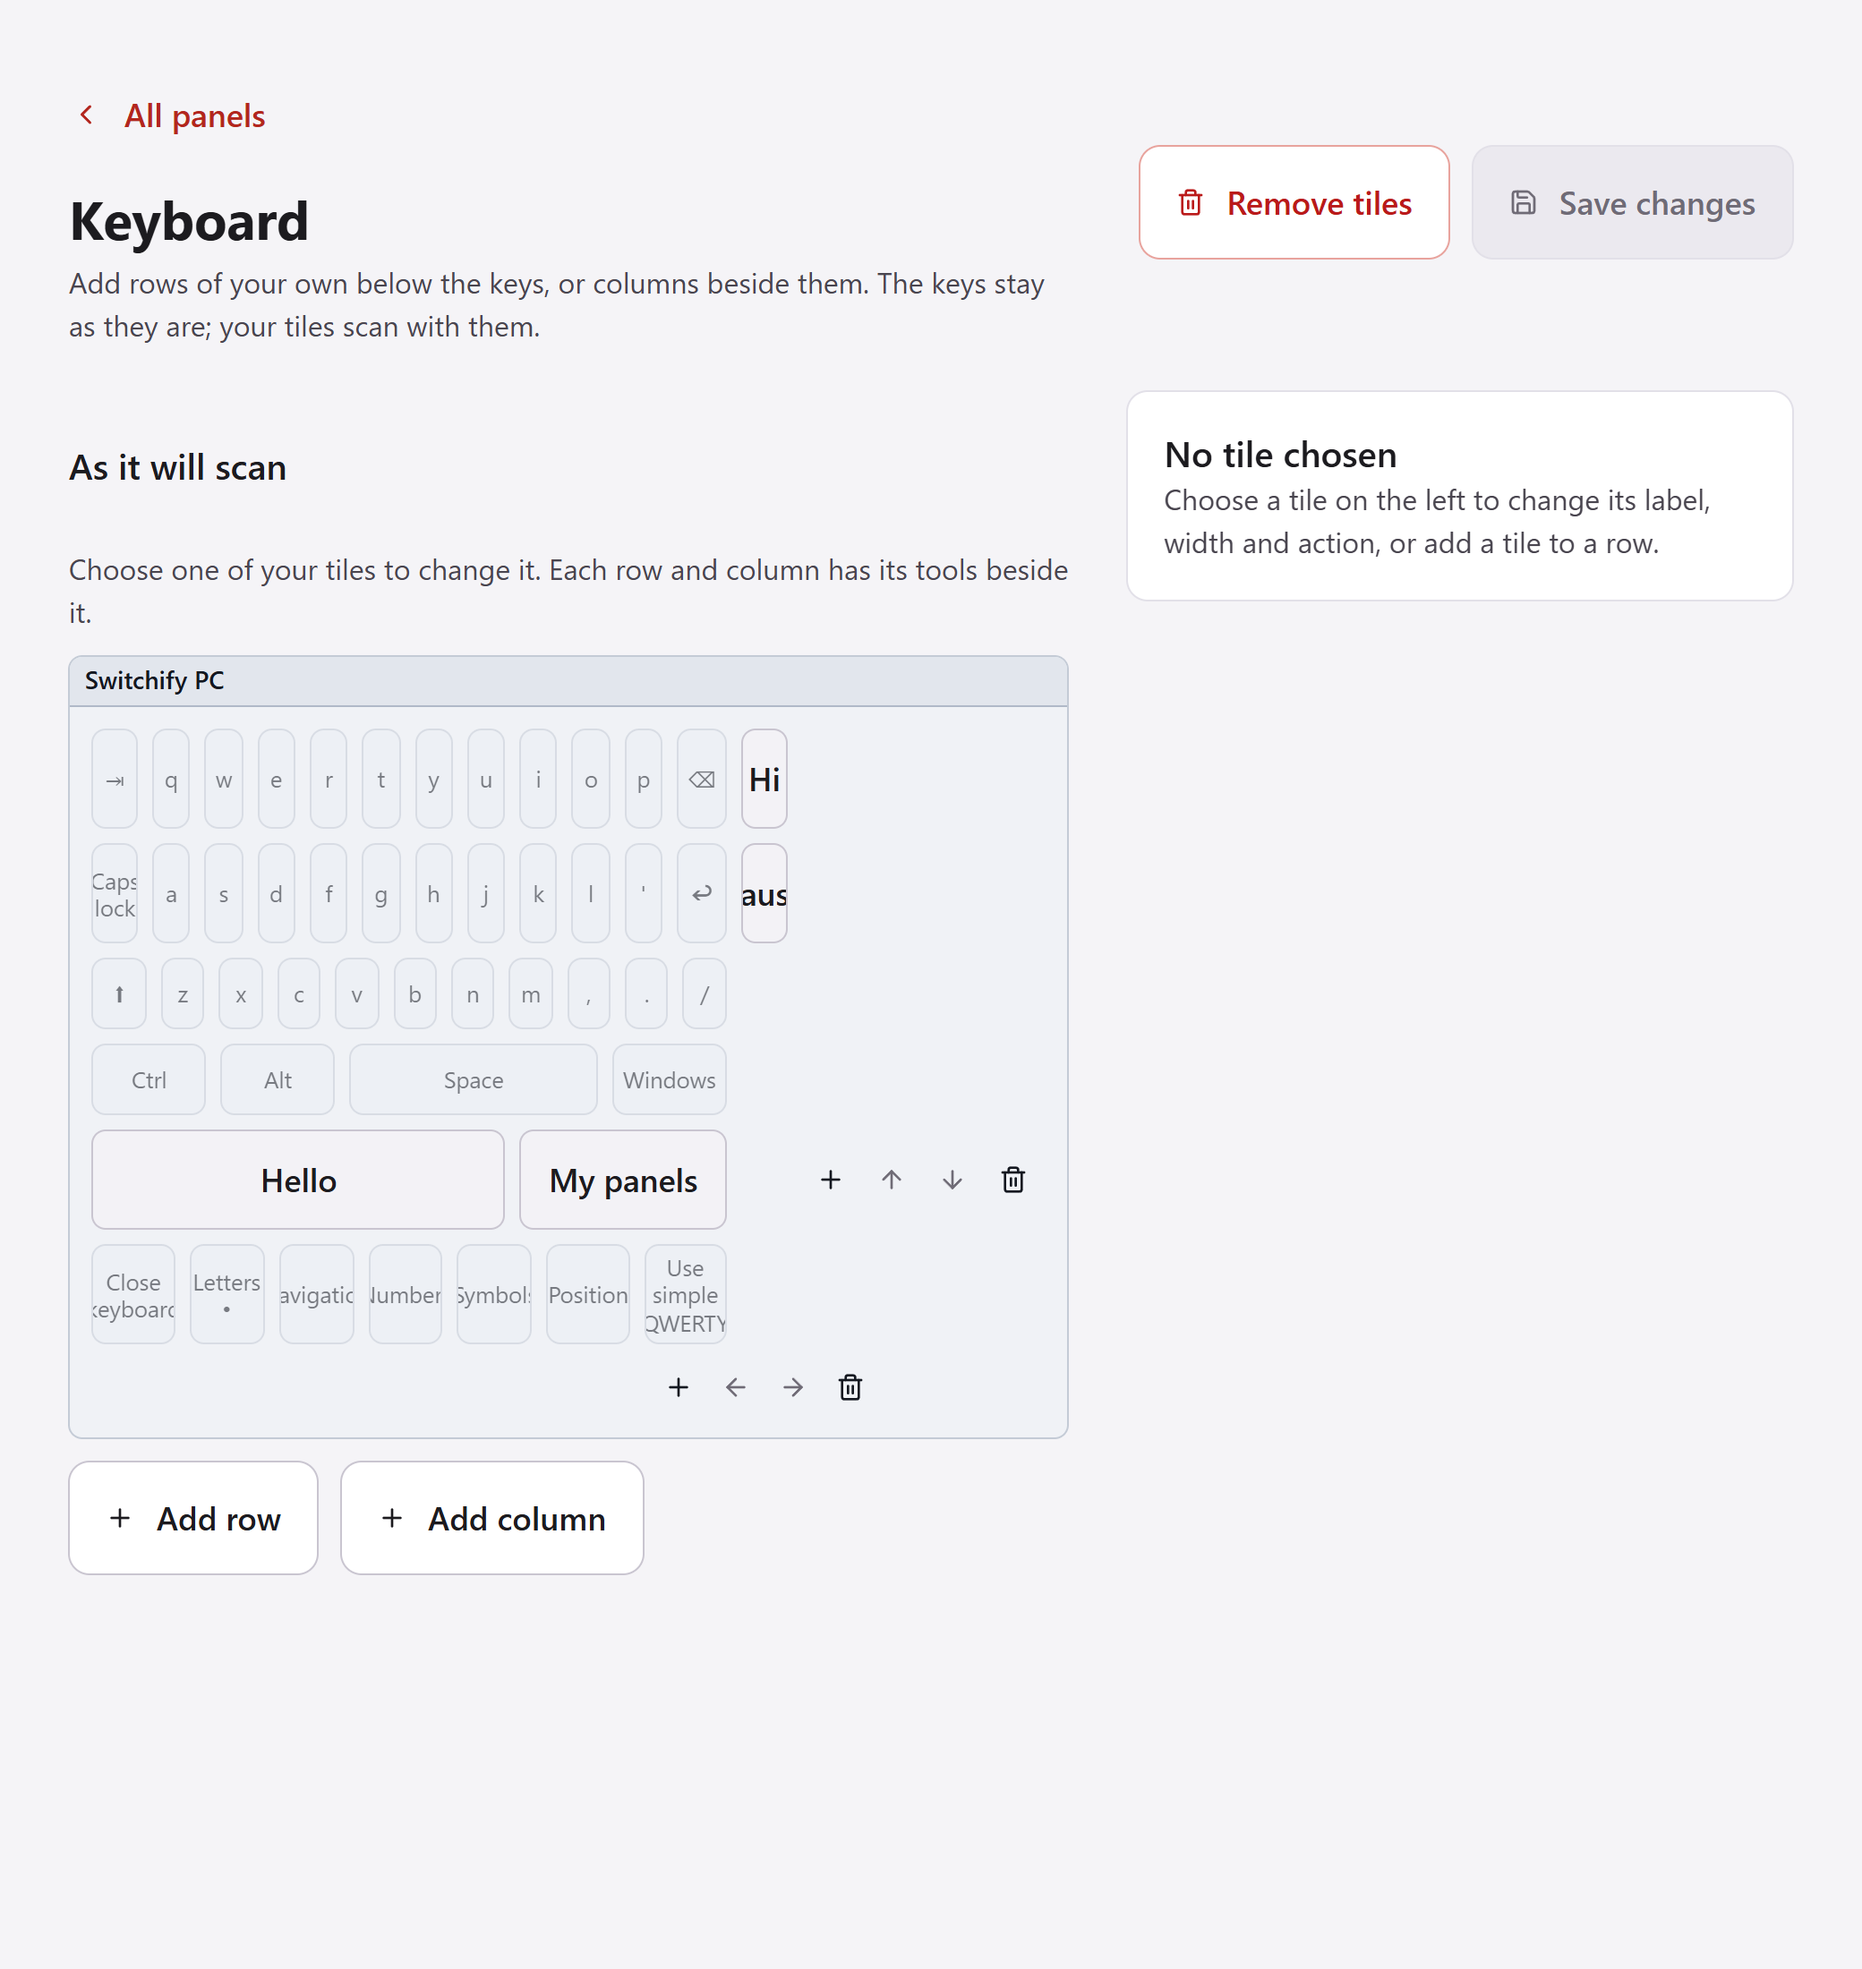
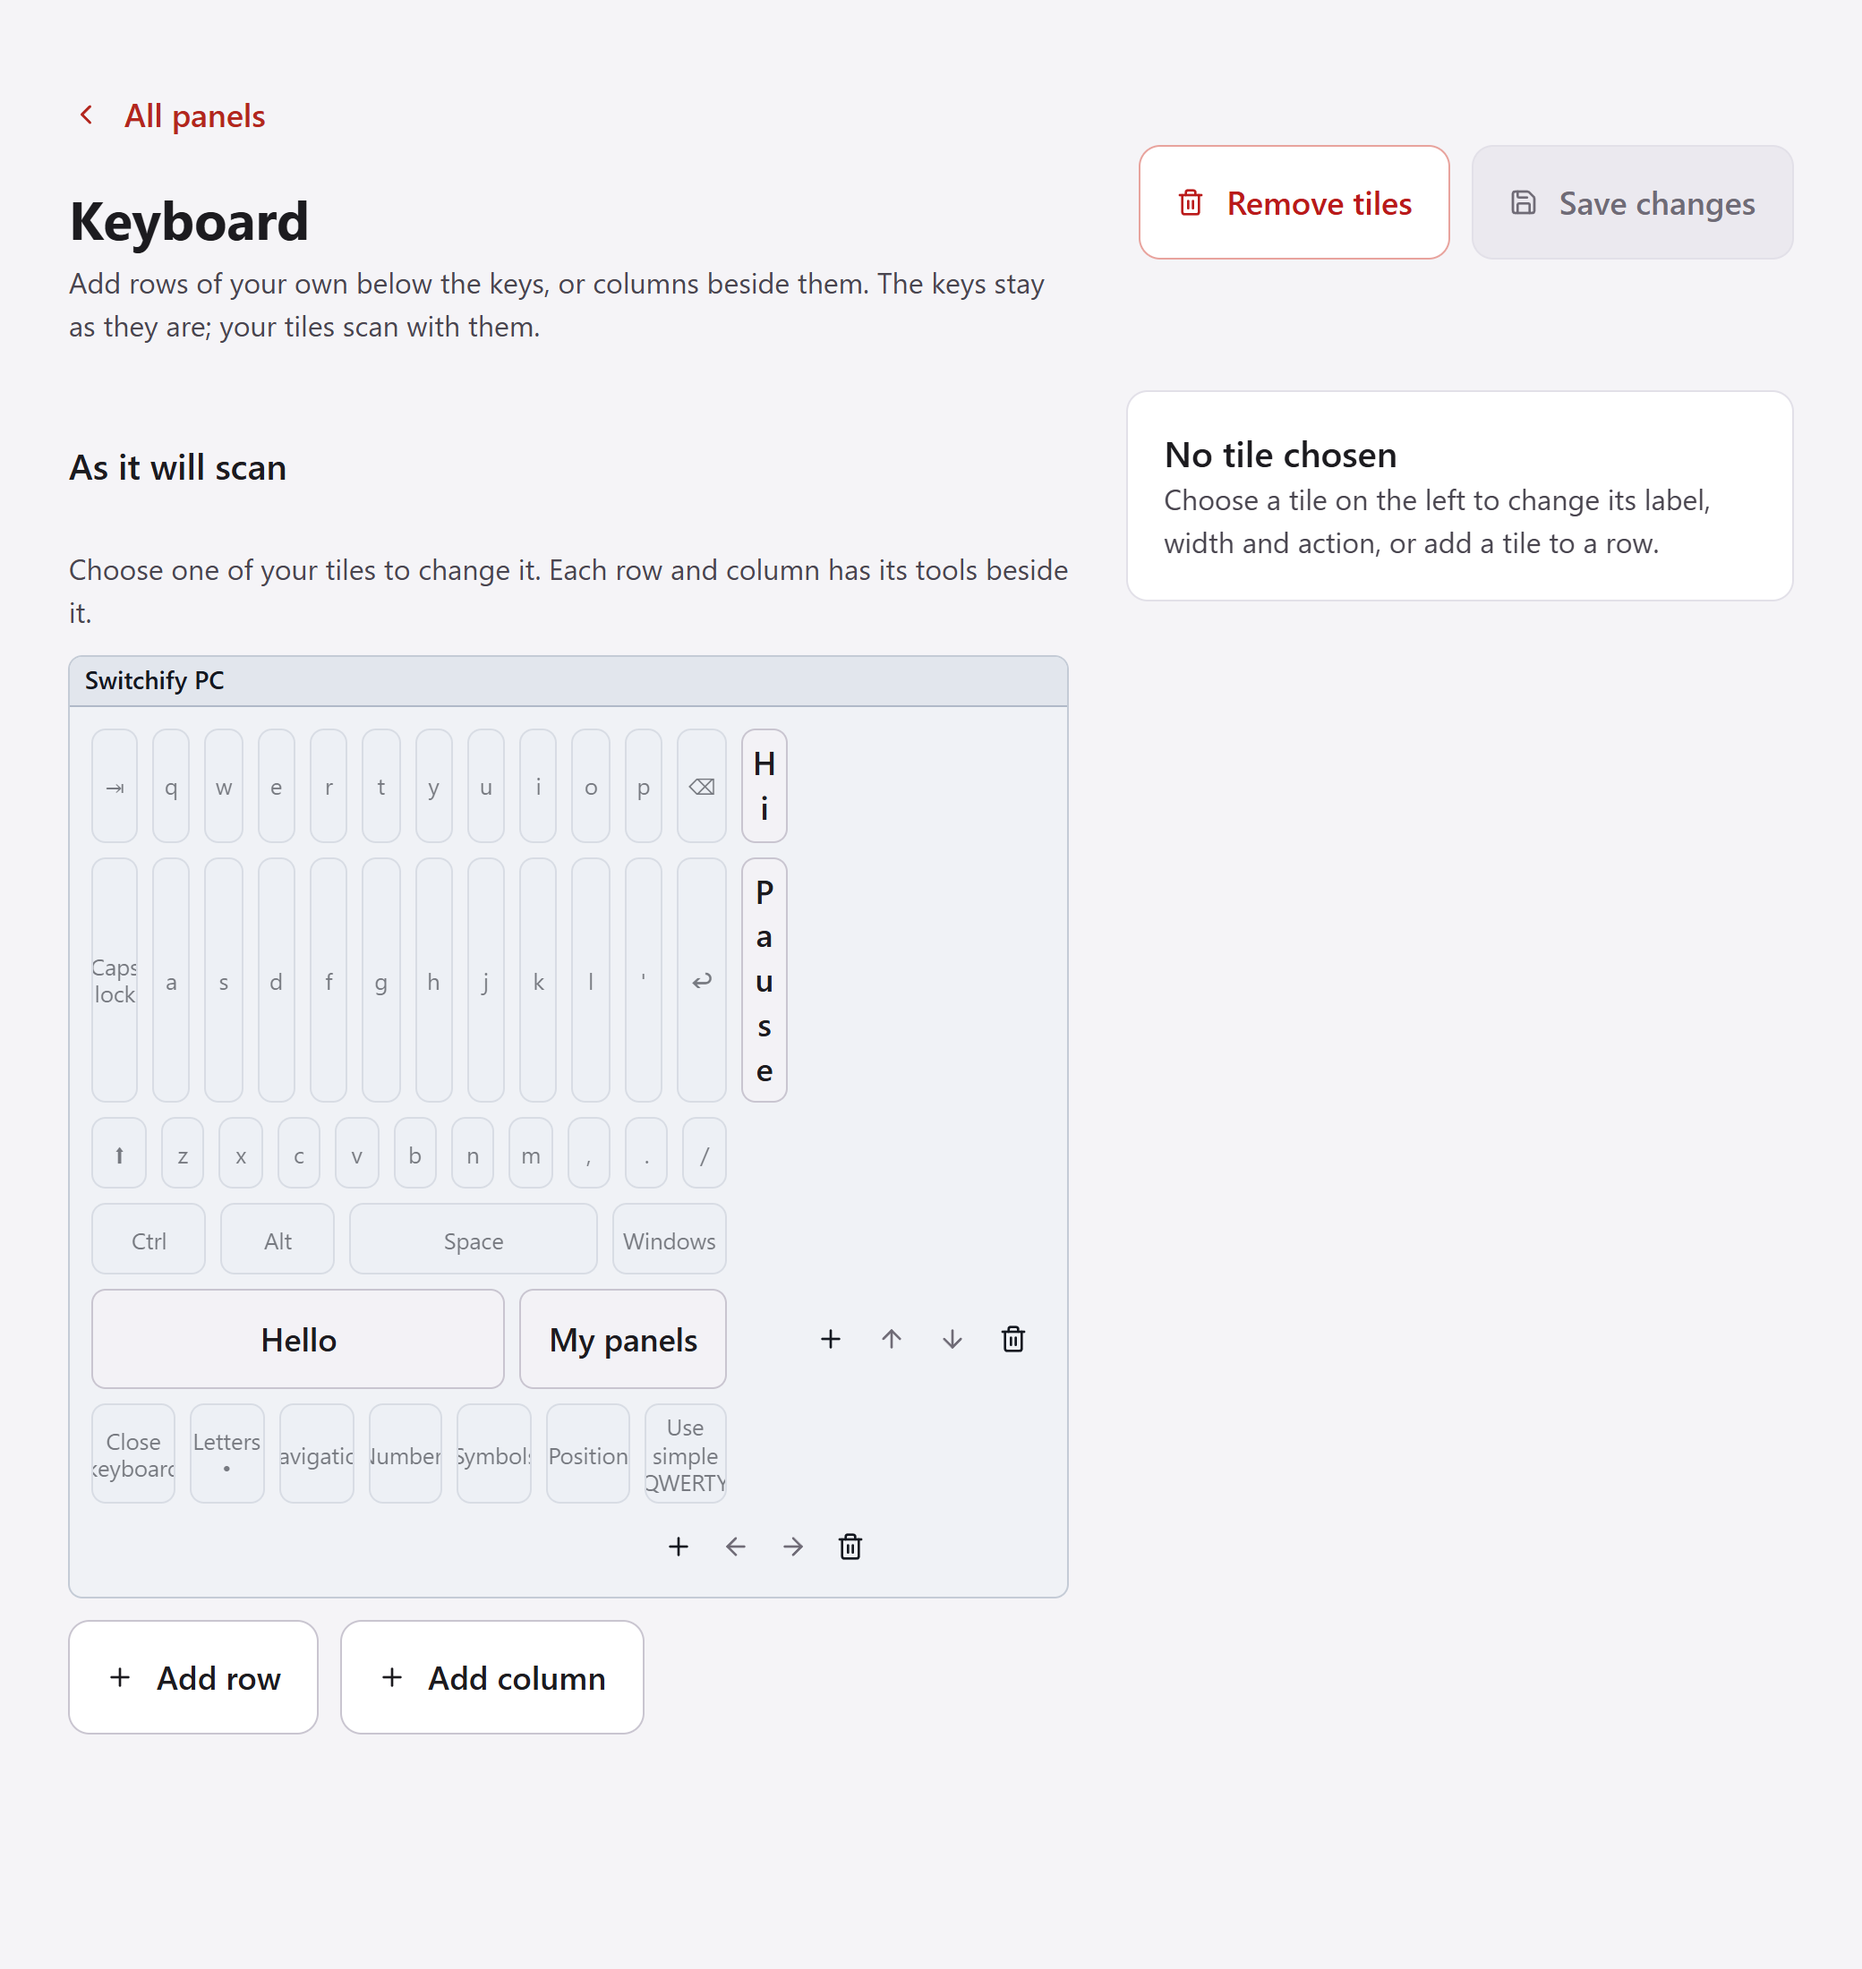
Address review: scope the editing grid, hide the keys from screen readers while editing, retake the screenshots

diff --git a/src/panels/PanelPicture.tsx b/src/panels/PanelPicture.tsx
@@ -52,9 +52,10 @@ export function PanelPicture({ panel, fixed, columns = [], editing, theme, title
     : <PictureTile cell={cell} colours={colours} width={width} data-column={place.column ? place.row + 1 : undefined} />;
   type Line = { key: string; keys: React.ReactNode[]; blank: boolean; row?: number };
   const lines: Line[] = [
-    ...(fixed ?? []).slice(0, -1).map((row, index): Line => ({ key: `fixed-${index}`, blank: false, keys: row.map((key, column) => <FixedTile key={column} cell={key} colours={colours} />) })),
+    // While editing, the keys are scenery: the group's label already says they are there.
+    ...(fixed ?? []).slice(0, -1).map((row, index): Line => ({ key: `fixed-${index}`, blank: false, keys: row.map((key, column) => <FixedTile key={column} cell={key} colours={colours} hidden={editing !== undefined} />) })),
     ...panel.rows.map((row, index): Line => ({ key: `row-${index}`, blank: false, row: index, keys: row.map((cell, column) => <span key={column} className="panel-picture-slot" style={{ flexGrow: cell.span, flexBasis: 0 }}>{userTile(cell, { row: index, cell: column })}</span>) })),
-    ...(fixed ?? []).slice(-1).map((row): Line => ({ key: "fixed-last", blank: false, keys: row.map((key, column) => <FixedTile key={column} cell={key} colours={colours} />) })),
+    ...(fixed ?? []).slice(-1).map((row): Line => ({ key: "fixed-last", blank: false, keys: row.map((key, column) => <FixedTile key={column} cell={key} colours={colours} hidden={editing !== undefined} />) })),
   ];
   const longest = Math.max(0, ...columns.map((column) => column.length));
   for (let index = lines.length; index < longest; index++) lines.push({ key: `below-${index}`, blank: true, keys: [] });
@@ -89,8 +90,8 @@ export function PanelPicture({ panel, fixed, columns = [], editing, theme, title
   </div>;
 }
 
-function FixedTile({ cell, colours }: { cell: PictureCell; colours: Palette }) {
-  return <span className="panel-picture-tile" data-fixed="true" style={{ flexGrow: cell.weight, flexBasis: 0, background: colours.utility, borderColor: colours.border }}>{cell.label}</span>;
+function FixedTile({ cell, colours, hidden }: { cell: PictureCell; colours: Palette; hidden?: boolean }) {
+  return <span className="panel-picture-tile" data-fixed="true" aria-hidden={hidden || undefined} style={{ flexGrow: cell.weight, flexBasis: 0, background: colours.utility, borderColor: colours.border }}>{cell.label}</span>;
 }
 
 function PictureTile({ cell, colours, width, "data-column": column }: { cell: PanelCell; colours: Palette; width?: number; "data-column"?: number }) {

diff --git a/src/ui/app.css b/src/ui/app.css
@@ -290,10 +290,10 @@ main { min-width: 0; }
 .panel-picture-slot { display: flex; min-width: 0; }
 .panel-picture-slot > * { flex: 1 1 0; min-width: 0; }
 /* The editing picture: each line is the drawn row plus its tools beside it. */
-.panel-picture-line { display: grid; grid-template-columns: minmax(0, 1fr) auto; gap: 8px; align-items: center; }
+.panel-picture-editing .panel-picture-line { display: grid; grid-template-columns: minmax(0, 1fr) auto; gap: 8px; align-items: center; }
 .panel-picture-editing .panel-picture-tools { display: flex; flex-wrap: nowrap; gap: 2px; width: 136px; }
 .panel-picture-editing .panel-picture-tools .btn, .panel-picture-column-tools .btn { width: 32px; height: 32px; min-width: 0; min-height: 0; padding: 0; color: inherit; }
-.panel-picture-editing .btn.panel-editor-tile { overflow: hidden; overflow-wrap: break-word; word-break: normal; }
+.panel-picture-editing .btn.panel-editor-tile { overflow: hidden; overflow-wrap: anywhere; }
 .panel-picture-large .panel-picture-tile[data-fixed] { overflow-wrap: break-word; }
 .panel-picture-editing .panel-picture-rows { gap: 8px; padding: 12px 8px 12px 12px; }
 .panel-picture-editing .btn.panel-editor-tile { width: 100%; min-width: 0; min-height: 56px; border-radius: 8px; padding: 6px 8px; }

diff --git a/src/panels/PanelEditor.tsx b/src/panels/PanelEditor.tsx
@@ -45,7 +45,6 @@ export function PanelEditor({ panel, panels, theme, busy, error, builtin, extras
   const addColumnRef = useRef<HTMLButtonElement>(null);
   const nameRef = useRef<HTMLInputElement>(null);
   const rowsRef = useRef<HTMLElement>(null);
-  const columnsRef = useRef<HTMLElement>(null);
   const ids = useId();
   const dirty = JSON.stringify(draft) !== JSON.stringify(panel) || JSON.stringify(columns) !== JSON.stringify(extras?.columns ?? []);
   const problems = { ...panelProblems(draft, panels, builtin?.kind, extras !== undefined), ...(extras ? columnProblems(columns, panels, draft.id) : {}) };
@@ -68,7 +67,7 @@ export function PanelEditor({ panel, panels, theme, busy, error, builtin, extras
       const place = `${line[1] === "row" ? "Row" : "Column"} ${Number(line[2]) + 1}`;
       return { label: `${place}: ${message}`, go: () => reveal(document.querySelector<HTMLElement>(`[aria-label="Add tile to ${place.toLowerCase()}"]`)) };
     }
-    const section = key === "name" ? nameRef : key.startsWith("column") ? columnsRef : rowsRef;
+    const section = key === "name" ? nameRef : rowsRef;
     return { label: `To save: ${message}`, go: () => reveal(section.current) };
   });
 

diff --git a/src/panels/PanelPicture.test.tsx b/src/panels/PanelPicture.test.tsx
@@ -76,6 +76,9 @@ describe("PanelPicture", () => {
     expect(within(group).getByRole("button", { name: "tools for row 2" })).toBeInTheDocument();
     expect(within(group).getByRole("button", { name: "tools for column 1" })).toBeInTheDocument();
     expect(screen.queryByRole("img")).not.toBeInTheDocument();
+    // A native panel's keys are scenery while editing: not read out one by one.
+    render(<PanelPicture panel={panel} fixed={[[{ label: "q", weight: 1 }]]} theme="dark" editing={{ tile: () => null, rowTools: () => null, columnTools: () => null }} />);
+    expect(screen.getByText("q")).toHaveAttribute("aria-hidden", "true");
   });
 
   it("follows the chosen panel theme, or the computer when set to system", () => {

diff --git a/site/src/content/docs/using/panels.md b/site/src/content/docs/using/panels.md
@@ -61,7 +61,7 @@ Rearranged menus are saved on this computer and, if you sign in to your account,
 
 ## Add tiles around the mouse panel's and the keyboard's keys
 
-Below the built-in menus, **Mouse panel and keyboard** shows the two scanning panels with their keys. The keys cannot be changed, but you can add tiles of your own around them: a phrase you type often, a shortcut, or a link to one of your panels. Choose a panel, then **Add row** for a row below the keys or **Add column** for a column beside them, and give each tile a label and an action as on any panel. The keys are drawn faintly and cannot be chosen; your tiles sit among them where they will scan, with each row's tools beside it and each column's tools under it. Choose **Save changes**; the card then says what you added.
+Below the built-in menus, **Mouse panel and keyboard** shows the two scanning panels with their keys. The keys cannot be changed, but you can add tiles of your own around them: a phrase you type often, a shortcut, or a link to one of your panels. Choose a panel, then **Add row** for a row below the keys or **Add column** for a column beside them, and give each tile a label and an action as on any panel. The keys are drawn faintly and cannot be chosen; your tiles sit among them where they will scan, with each row's tools beside it and each column's tools under it. With a tile chosen, **Row** or **Column** on the right moves it to another row or column, or a new one. Choose **Save changes**; the card then says what you added.
 
 Up to four rows fit below the keys, and each row shares the panel's width between its tiles, as on your own panels. Up to two columns of up to six tiles run down the right of the keys from the top row; a column longer than the panel adds rows of its own below it, and a column is as wide as its widest tile.
 
